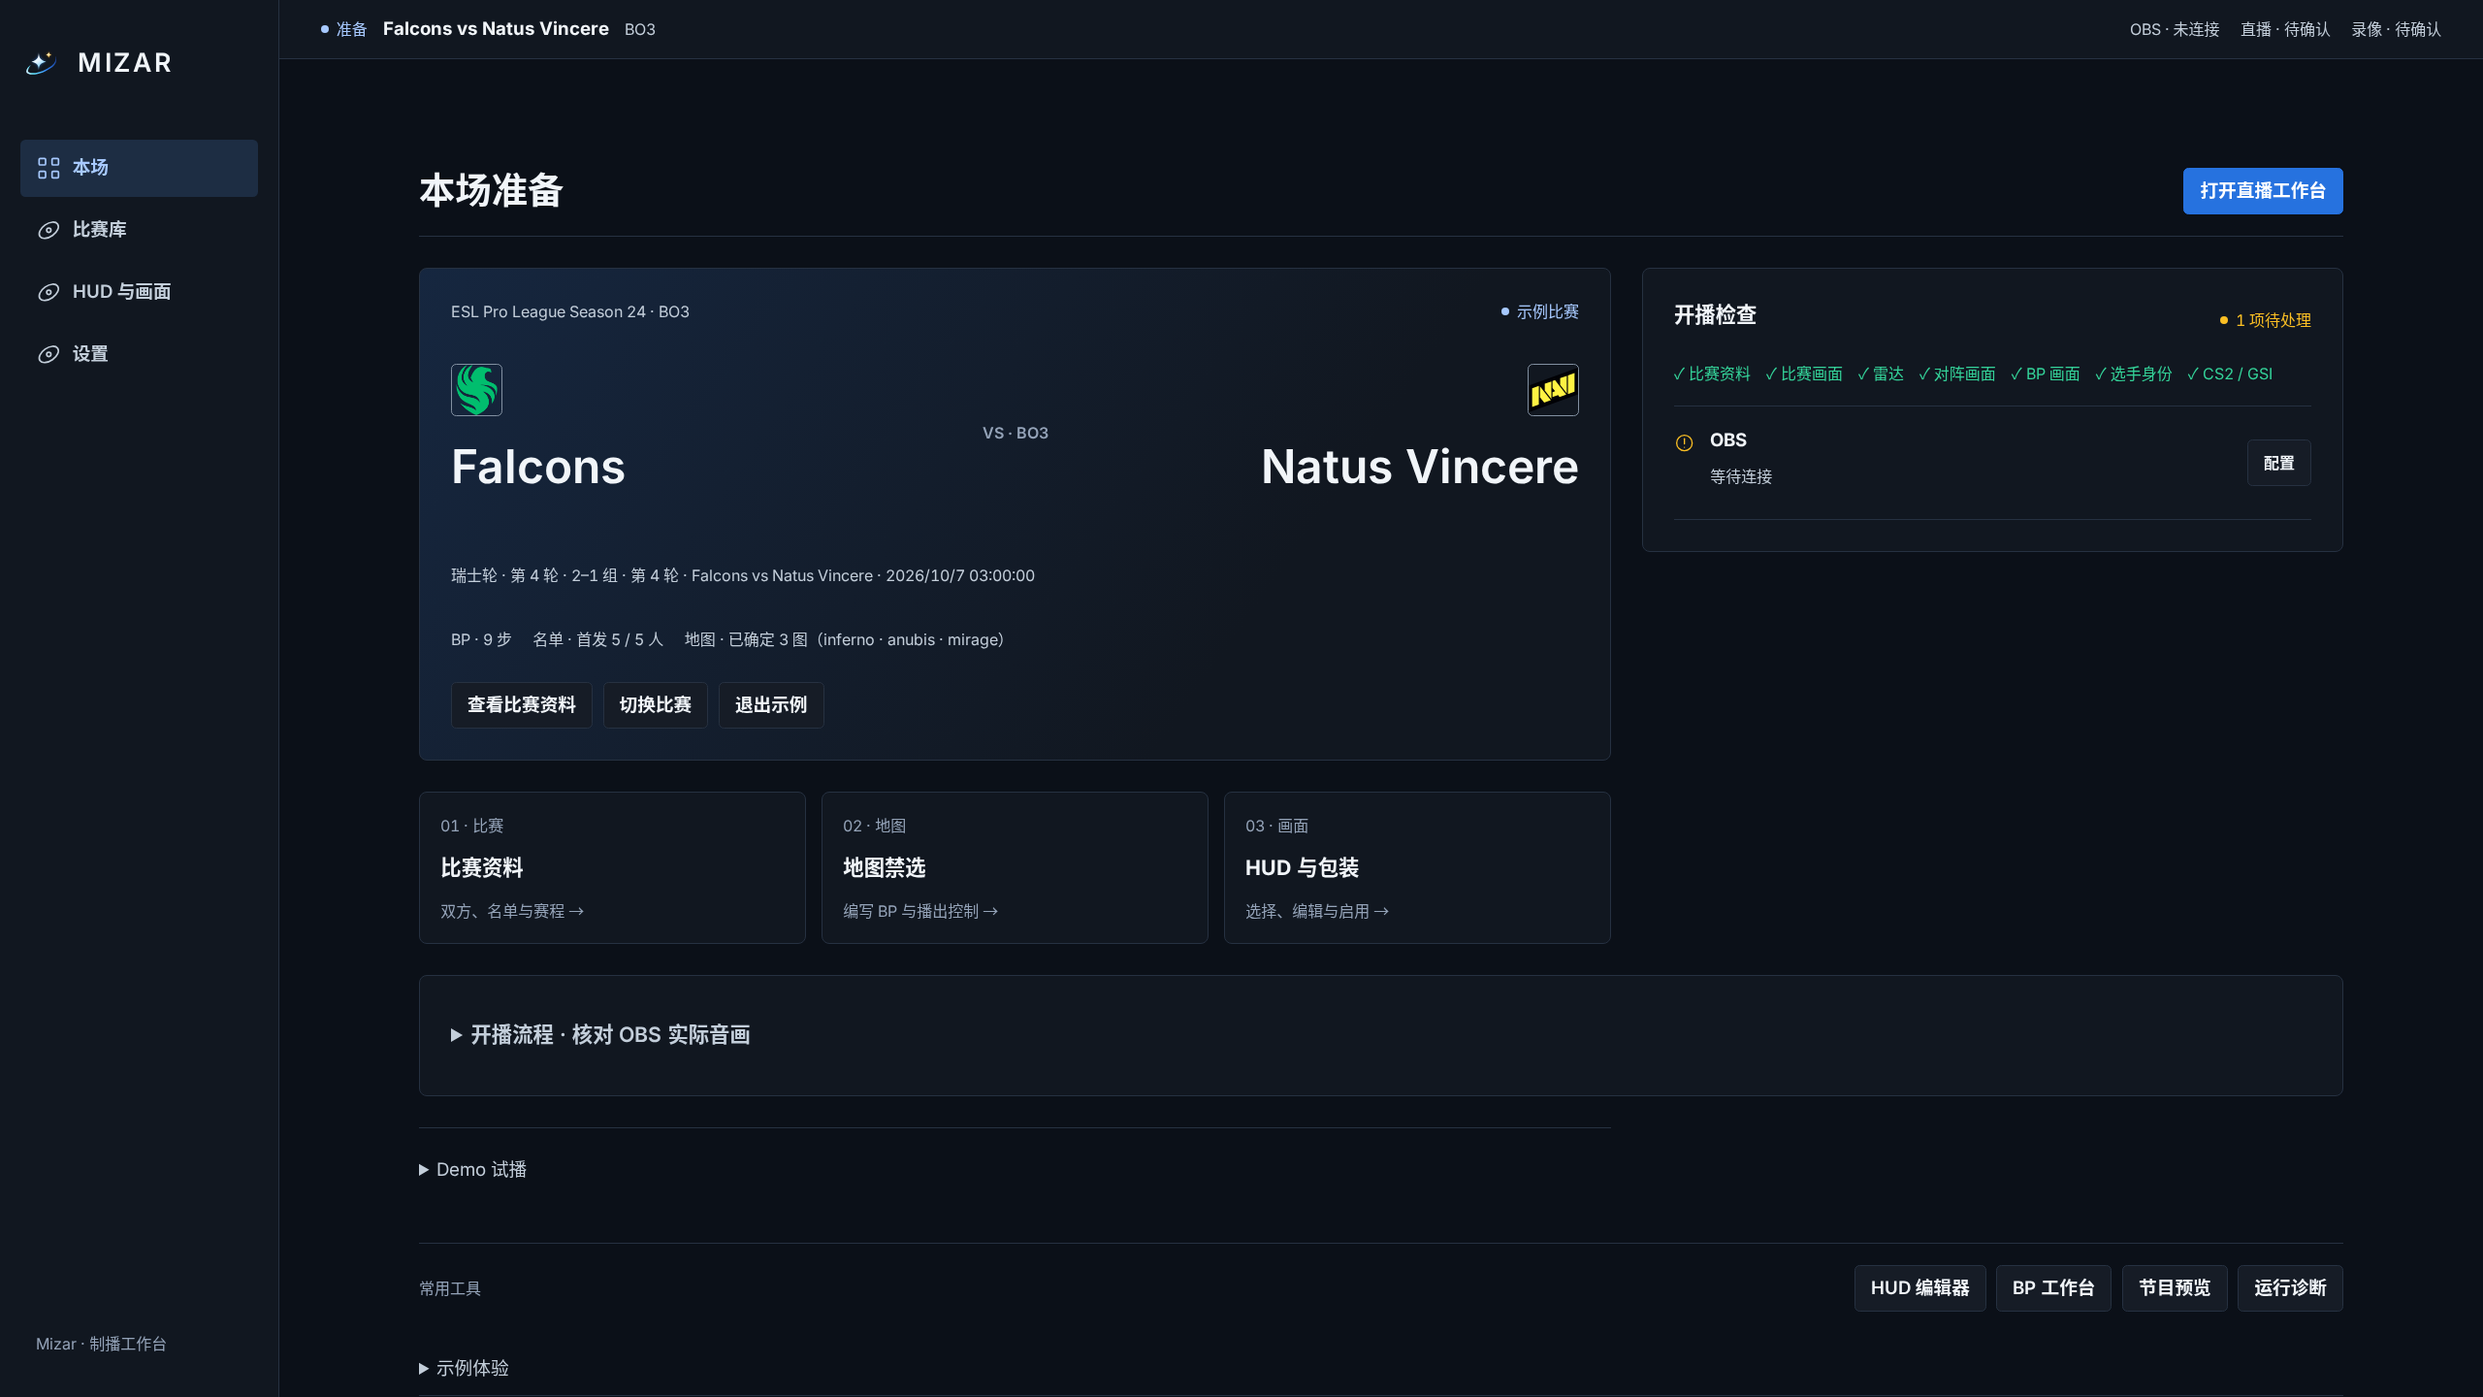
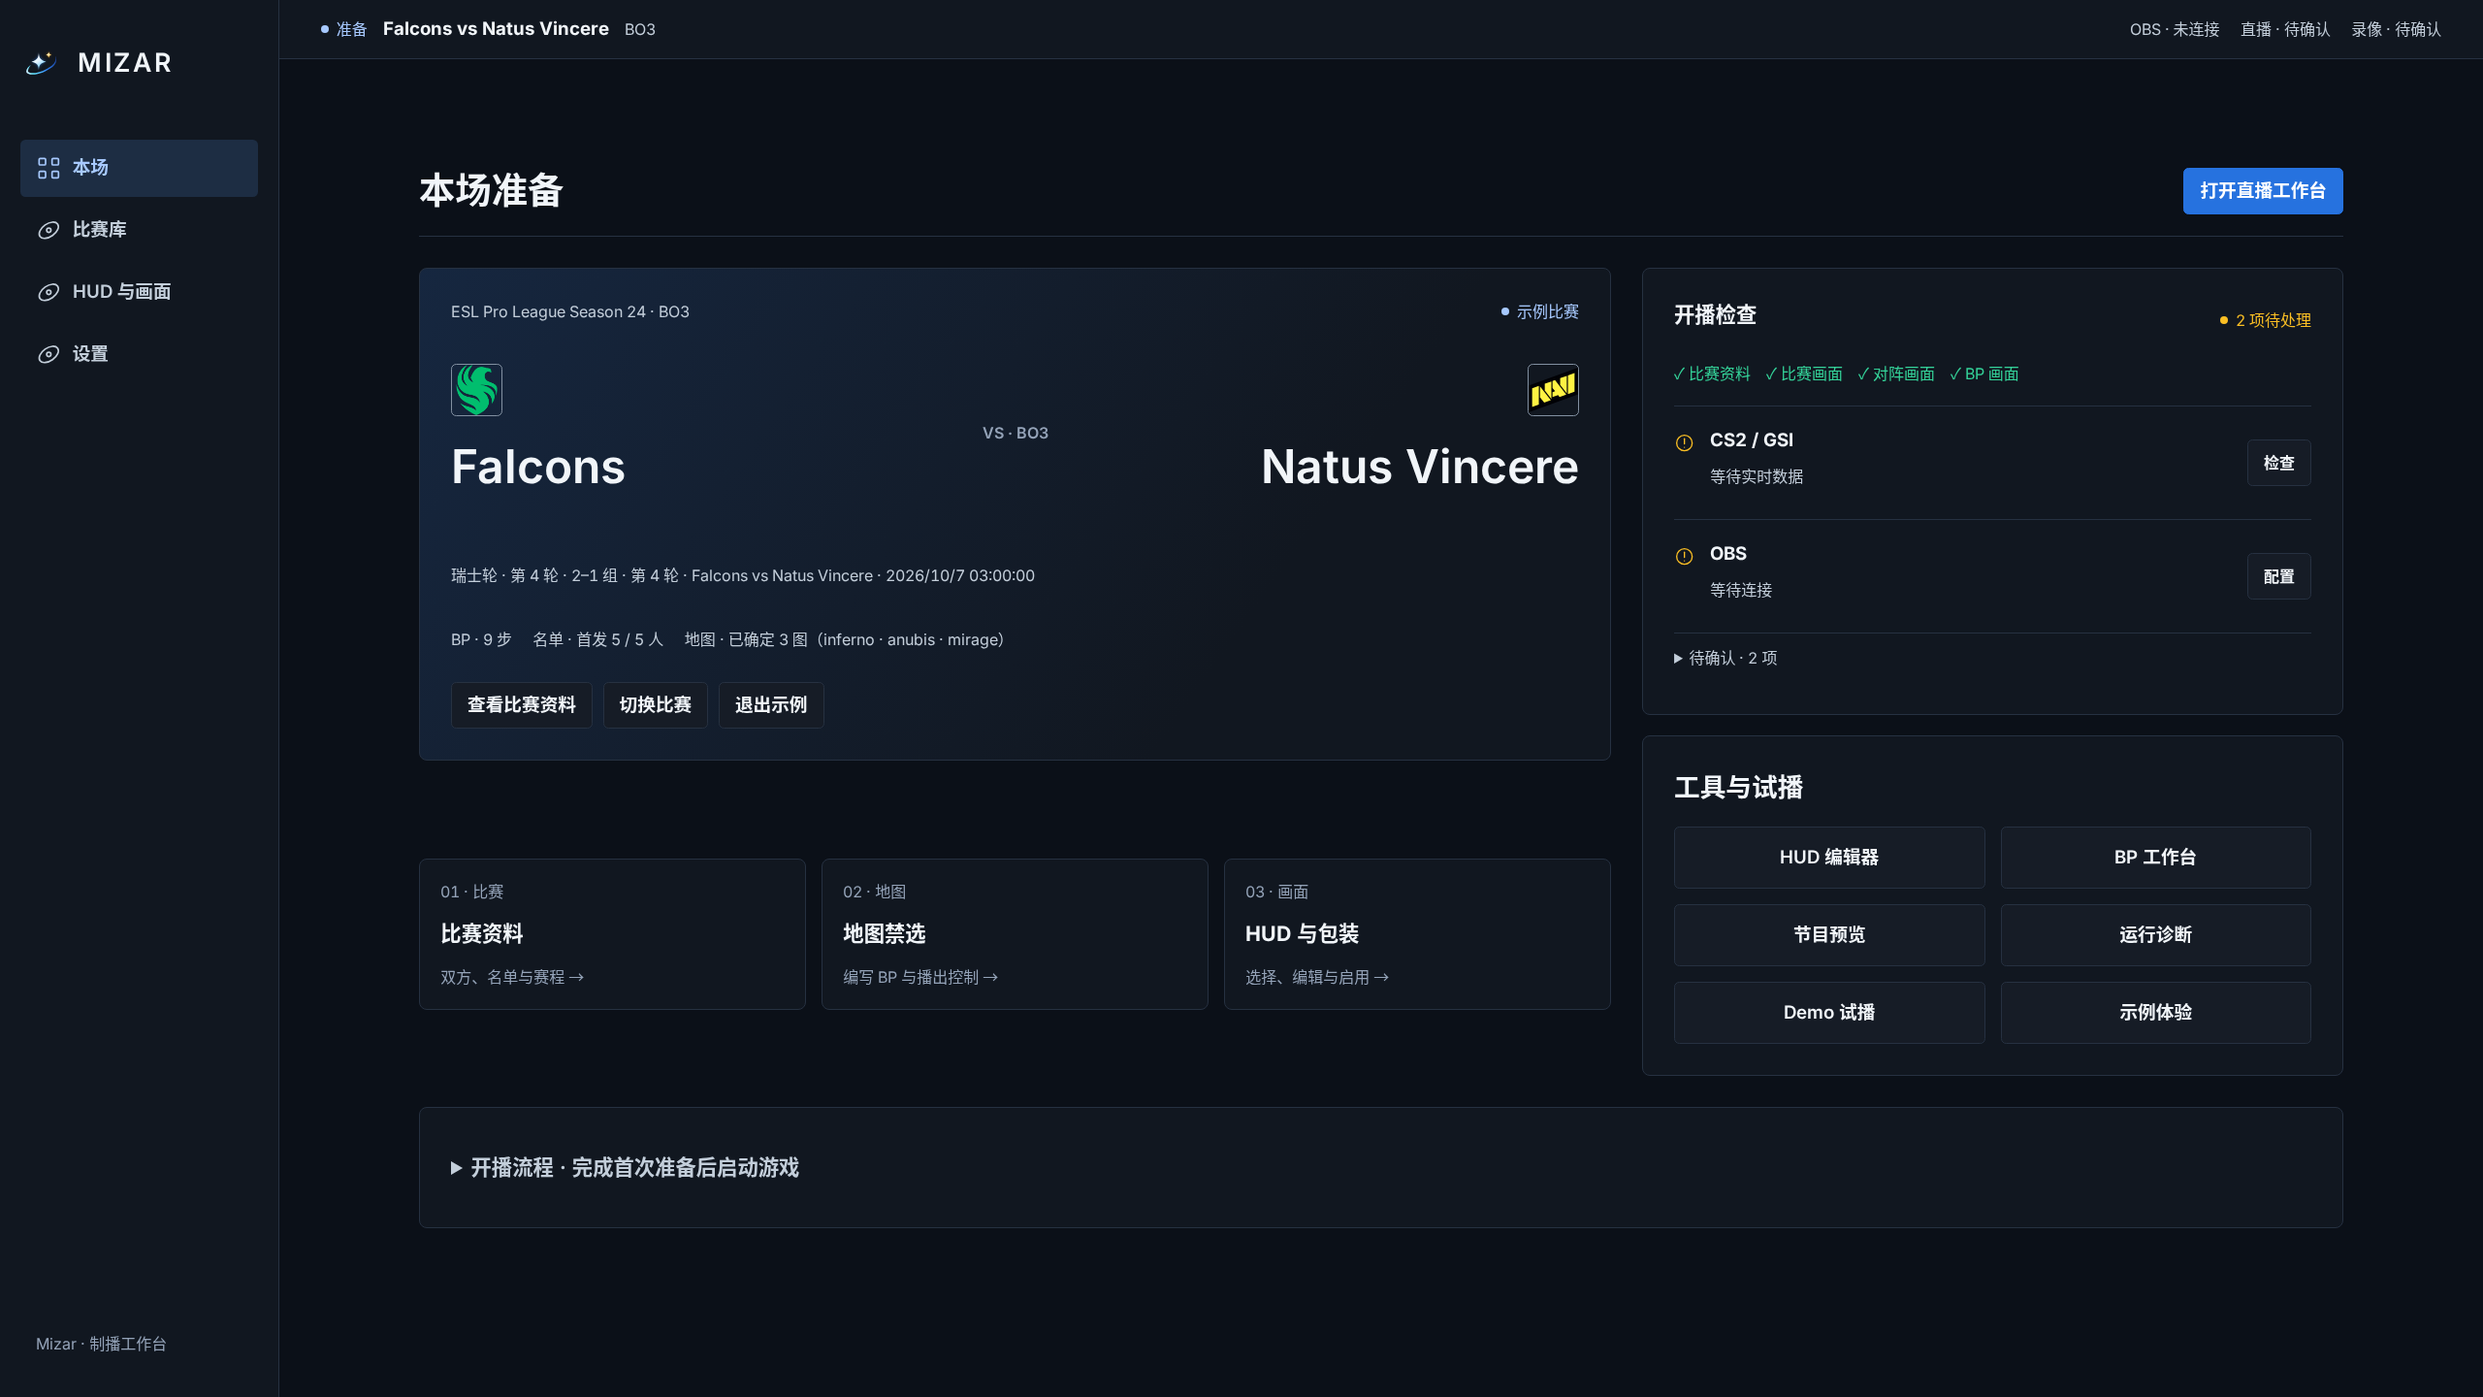
fix(web): group home tools and trial entries below readiness

diff --git a/apps/web/src/preparation/PreparationPage.tsx b/apps/web/src/preparation/PreparationPage.tsx
@@ -16,7 +16,7 @@ import { RivalHubPreparationPanel } from '../operator/RivalHubPreparationPanel';
 import { RivalHubSyncControls } from '../operator/RivalHubSyncControls';
 import { desktopInvoke, useProgramScenes } from '../workspace/client';
 import { LocalTournamentEditor } from '../workspace/LocalTournamentEditor';
-import { Button, Panel, StatusBanner, StatusPill } from '../ui';
+import { Button, Dialog, Panel, StatusBanner, StatusPill } from '../ui';
 import { LocalOverlayControls } from './LocalOverlayControls';
 import { LocalMatchControls } from './LocalMatchControls';
 import { useLocalTournament } from './tournament';
@@ -135,6 +135,10 @@ export function PreparationPage() {
 
   const [message, setMessage] = useState('');
   const [busy, setBusy] = useState(false);
+  const [demoOpen, setDemoOpen] = useState(() =>
+    new URLSearchParams(window.location.search).has('demoTest'),
+  );
+  const [sampleOpen, setSampleOpen] = useState(false);
 
   async function action(run: () => Promise<unknown>) {
     if (busy) return;
@@ -263,7 +267,7 @@ export function PreparationPage() {
                     </Button>
                     <Button
                       onClick={() => {
-                        window.location.href = '/?demoTest=1#demo-test';
+                        setDemoOpen(true);
                       }}
                     >
                       创建 Demo 测试比赛
@@ -297,23 +301,6 @@ export function PreparationPage() {
                       创建本地比赛
                     </Button>
                   </div>
-                  {hasSampleCapability ? (
-                    <details className="preparation-sample-entry">
-                      <summary>体验示例</summary>
-                      <Button
-                        variant="secondary"
-                        disabled={busy}
-                        onClick={() =>
-                          void action(async () => {
-                            await command('/operator/rivals-rehearsal/load');
-                            window.location.reload();
-                          })
-                        }
-                      >
-                        加载示例比赛
-                      </Button>
-                    </details>
-                  ) : null}
                 </div>
                 <div className="preparation-task-art" aria-hidden="true">
                   <img src="/brand/mizar-mark.svg" alt="" />
@@ -416,7 +403,7 @@ export function PreparationPage() {
                   <span>双方、名单与赛程 →</span>
                 </a>
                 <a
-                  href="/preview?scene=bp"
+                  href="/operator/bp"
                   onClick={(event) => {
                     event.preventDefault();
                     void action(() => openTool('bp'));
@@ -433,8 +420,8 @@ export function PreparationPage() {
                 </a>
               </nav>
             ) : null}
-            {match ? (
-              <div className="preparation-overview">
+            <div className="preparation-overview">
+              {match ? (
                 <Panel>
                   <div className="preparation-check-heading">
                     <h2>开播检查</h2>
@@ -508,82 +495,104 @@ export function PreparationPage() {
                     </details>
                   ) : null}
                 </Panel>
-              </div>
-            ) : null}
-            <SpectatorWorkflow capabilities={capabilities} production={production} />
-            <details
-              className="preparation-secondary"
-              open={new URLSearchParams(window.location.search).has('demoTest')}
-            >
-              <summary>Demo 试播</summary>
-              <DemoTestPanel />
-            </details>
-            <div className="preparation-tool-strip">
-              <span>常用工具</span>
-              {tools}
+              ) : null}
+              <Panel className="preparation-quick-tools">
+                <h2>工具与试播</h2>
+                {tools}
+                <div className="preparation-quick-trials">
+                  <Button onClick={() => setDemoOpen(true)}>Demo 试播</Button>
+                  {hasSampleCapability ? (
+                    <Button onClick={() => setSampleOpen(true)}>示例体验</Button>
+                  ) : null}
+                </div>
+              </Panel>
             </div>
+            <Dialog title="Demo 试播" open={demoOpen} onClose={() => setDemoOpen(false)}>
+              <DemoTestPanel forceExpanded={demoOpen} />
+            </Dialog>
+            <Dialog title="示例体验" open={sampleOpen} onClose={() => setSampleOpen(false)}>
+              {hasSampleCapability && rehearsal?.loaded && envelope?.source === 'fixture' ? (
+                <div className="preparation-rehearsal-stage">
+                  <div className="preparation-task-header">
+                    <div>
+                      {rehearsal.selectedMatchId === rehearsal.focusMatchId ? (
+                        <p>
+                          当前阶段：{rehearsal.stages[rehearsal.stageIndex]?.label ?? '赛前等待'}
+                        </p>
+                      ) : (
+                        <p>返回初始示例比赛后，可切换阶段。</p>
+                      )}
+                    </div>
+                  </div>
+                  {envelope?.source === 'fixture' &&
+                  rehearsal?.loaded &&
+                  rehearsalSchedule?.matches ? (
+                    <div className="preparation-schedule-selector">
+                      <label htmlFor="rehearsal-match-select">切换示例比赛：</label>
+                      <select
+                        id="rehearsal-match-select"
+                        value={rehearsal.selectedMatchId ?? ''}
+                        disabled={busy}
+                        onChange={(e) => {
+                          const matchId = e.target.value;
+                          void action(async () => {
+                            await command('/operator/rivals-rehearsal/select', { matchId });
+                            window.location.reload();
+                          });
+                        }}
+                      >
+                        {rehearsalSchedule.matches.map((m) => (
+                          <option key={m.matchId} value={m.matchId}>
+                            {m.matchId === rehearsal.focusMatchId ? '初始示例 · ' : ''}
+                            {m.entrantA.name} vs {m.entrantB.name} · {m.format.toUpperCase()}
+                            {m.stageLabel ? ` (${m.stageLabel})` : ''}
+                          </option>
+                        ))}
+                      </select>
+                    </div>
+                  ) : null}
+                  {rehearsal.selectedMatchId === rehearsal.focusMatchId ? (
+                    <div className="preparation-rehearsal-stage-buttons">
+                      {rehearsal.stages.map((stage, idx) => (
+                        <Button
+                          key={stage.label}
+                          aria-pressed={rehearsal.stageIndex === idx}
+                          variant={rehearsal.stageIndex === idx ? 'primary' : 'secondary'}
+                          disabled={busy}
+                          onClick={() =>
+                            void action(async () => {
+                              await command('/operator/rivals-rehearsal/stage', { index: idx });
+                            })
+                          }
+                        >
+                          {stage.label}
+                        </Button>
+                      ))}
+                    </div>
+                  ) : null}
+                </div>
+              ) : null}
+              {!(rehearsal?.loaded && envelope?.source === 'fixture') ? (
+                <>
+                  <p>加载内置比赛，体验准备流程、节目画面与比赛阶段切换。</p>
+                  <Button
+                    disabled={busy}
+                    variant="primary"
+                    onClick={() =>
+                      void action(async () => {
+                        await command('/operator/rivals-rehearsal/load');
+                        window.location.reload();
+                      })
+                    }
+                  >
+                    加载示例比赛
+                  </Button>
+                </>
+              ) : null}
+            </Dialog>
+            <SpectatorWorkflow capabilities={capabilities} production={production} />
             {match && production && production.mode !== 'preparation' ? (
               <ProductionStatus matchId={match.matchId} />
-            ) : null}
-            {hasSampleCapability && rehearsal?.loaded && envelope?.source === 'fixture' ? (
-              <details className="preparation-rehearsal-stage">
-                <summary>示例体验</summary>
-                <div className="preparation-task-header">
-                  <div>
-                    {rehearsal.selectedMatchId === rehearsal.focusMatchId ? (
-                      <p>当前阶段：{rehearsal.stages[rehearsal.stageIndex]?.label ?? '赛前等待'}</p>
-                    ) : (
-                      <p>返回初始示例比赛后，可切换阶段。</p>
-                    )}
-                  </div>
-                </div>
-                {envelope?.source === 'fixture' &&
-                rehearsal?.loaded &&
-                rehearsalSchedule?.matches ? (
-                  <div className="preparation-schedule-selector">
-                    <label htmlFor="rehearsal-match-select">切换示例比赛：</label>
-                    <select
-                      id="rehearsal-match-select"
-                      value={rehearsal.selectedMatchId ?? ''}
-                      disabled={busy}
-                      onChange={(e) => {
-                        const matchId = e.target.value;
-                        void action(async () => {
-                          await command('/operator/rivals-rehearsal/select', { matchId });
-                          window.location.reload();
-                        });
-                      }}
-                    >
-                      {rehearsalSchedule.matches.map((m) => (
-                        <option key={m.matchId} value={m.matchId}>
-                          {m.matchId === rehearsal.focusMatchId ? '初始示例 · ' : ''}
-                          {m.entrantA.name} vs {m.entrantB.name} · {m.format.toUpperCase()}
-                          {m.stageLabel ? ` (${m.stageLabel})` : ''}
-                        </option>
-                      ))}
-                    </select>
-                  </div>
-                ) : null}
-                {rehearsal.selectedMatchId === rehearsal.focusMatchId ? (
-                  <div className="preparation-rehearsal-stage-buttons">
-                    {rehearsal.stages.map((stage, idx) => (
-                      <Button
-                        key={stage.label}
-                        aria-pressed={rehearsal.stageIndex === idx}
-                        variant={rehearsal.stageIndex === idx ? 'primary' : 'secondary'}
-                        disabled={busy}
-                        onClick={() =>
-                          void action(async () => {
-                            await command('/operator/rivals-rehearsal/stage', { index: idx });
-                          })
-                        }
-                      >
-                        {stage.label}
-                      </Button>
-                    ))}
-                  </div>
-                ) : null}
-              </details>
             ) : null}
           </div>
         ) : path === '/resources' ? (

diff --git a/apps/web/src/preparation/preparation.css b/apps/web/src/preparation/preparation.css
@@ -208,9 +208,7 @@
   font-size: var(--mizar-type-size-small);
   color: var(--mizar-fg-muted);
 }
-.preparation-dashboard[data-selected='false'] {
-  grid-template-columns: minmax(0, 1fr);
-}
+
 .preparation-task-panel,
 .preparation-match {
   background: linear-gradient(
@@ -1065,4 +1063,20 @@
 }
 .preparation-program-preview iframe {
   background: var(--mizar-bg-canvas);
+}
+
+.preparation-quick-tools h2 {
+  margin-bottom: var(--mizar-layout-padding);
+}
+.preparation-quick-tools :is(.preparation-actions, .preparation-quick-trials) {
+  display: grid;
+  grid-template-columns: repeat(2, minmax(0, 1fr));
+  gap: var(--mizar-layout-gap);
+}
+.preparation-quick-trials {
+  margin-top: var(--mizar-layout-gap);
+}
+.preparation-quick-tools .mizar-button {
+  width: 100%;
+  min-height: calc(var(--mizar-layout-target) * 1.5);
 }

diff --git a/apps/web/src/preparation/DemoTestPanel.tsx b/apps/web/src/preparation/DemoTestPanel.tsx
@@ -7,12 +7,12 @@ import { checkObsBeforeLaunch, useLocalRead } from './client';
 import { useCs2Status } from './cs2-status';
 import type { DemoTestView, SelectedDemo } from './demo-test';
 
-export function DemoTestPanel() {
+export function DemoTestPanel({ forceExpanded = false }: { forceExpanded?: boolean }) {
   const trial = useLocalRead<DemoTestView>('/local/v1/demo-test', 1000);
   const [expanded, setExpanded] = useState(() =>
     new URLSearchParams(window.location.search).has('demoTest'),
   );
-  const shown = expanded || trial?.active === true;
+  const shown = forceExpanded || expanded || trial?.active === true;
   const editor = useHudConfigEditorClient(shown);
   const { status: game } = useCs2Status();
   const [selected, setSelected] = useState<SelectedDemo | null>(null);
